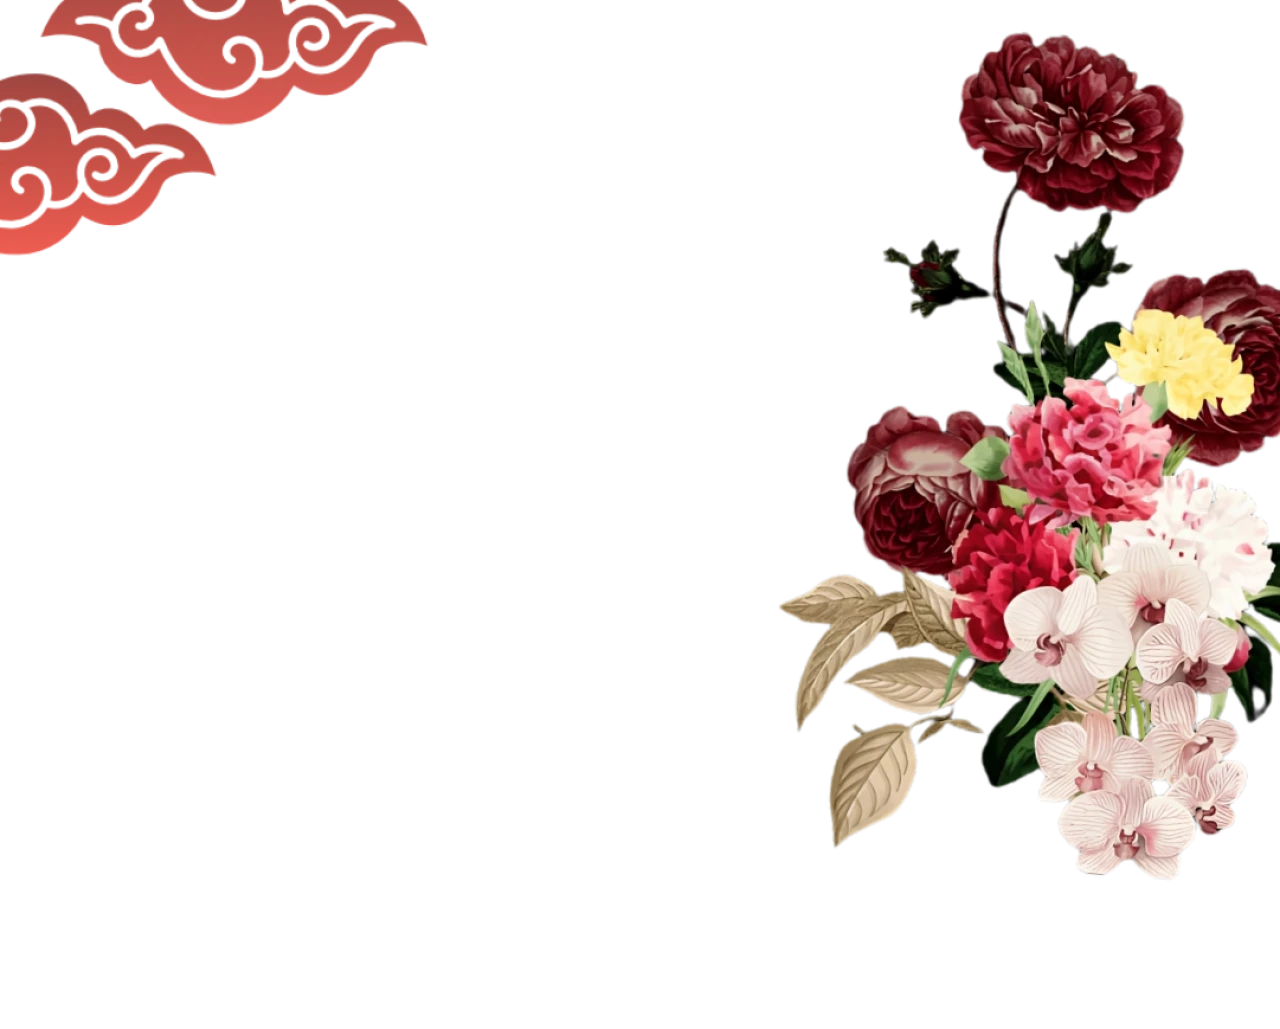
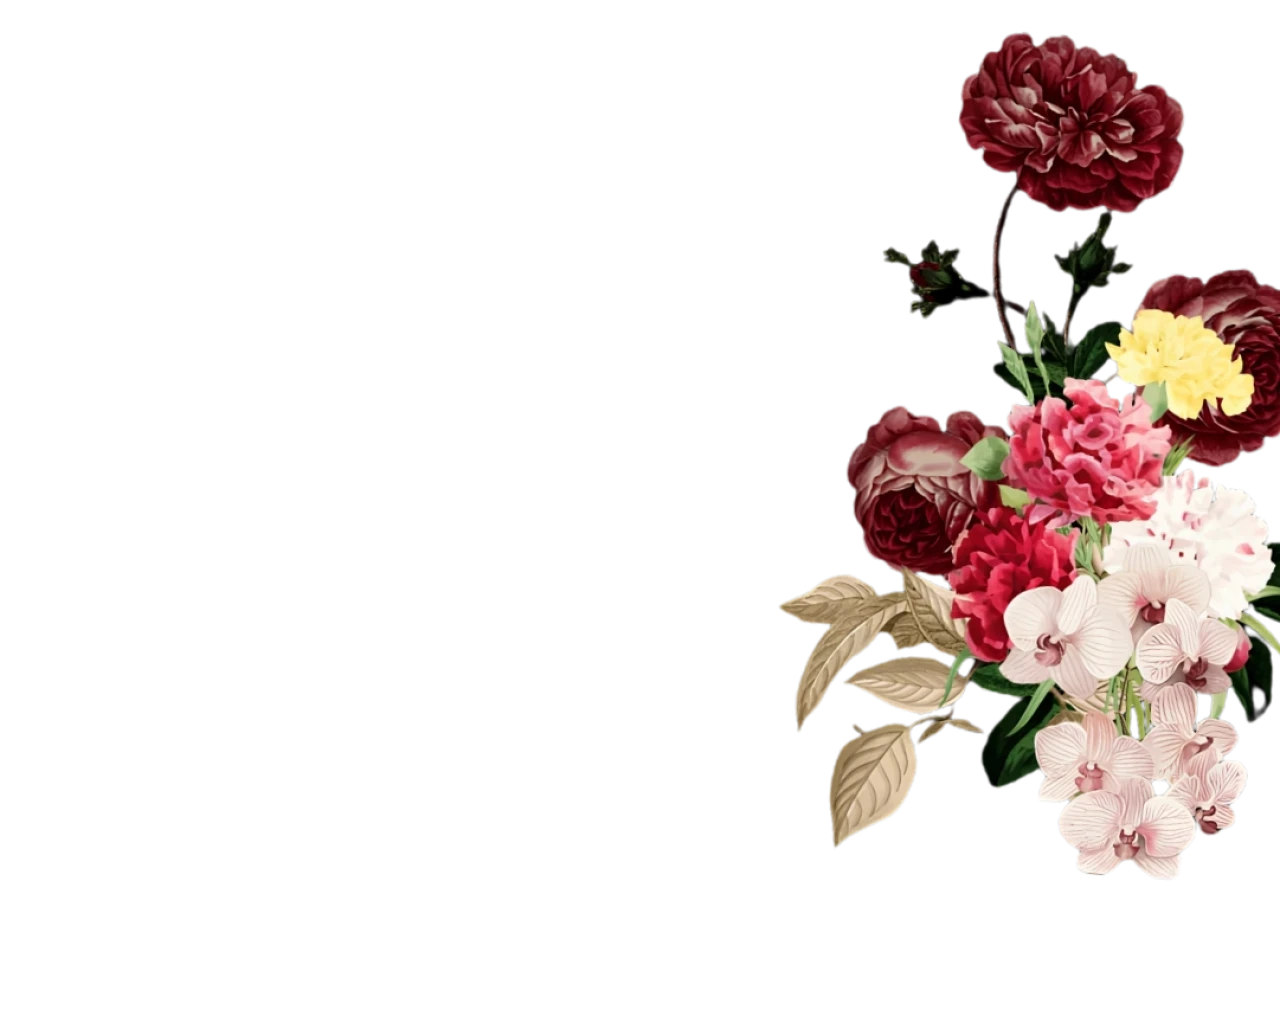
fix(java-vibes): scale down 'The Wedding Of', remove cloud from Save The Date arch, remove RY emblem and shrink Matur Nuwun text

Changed region(s): [[0.0, 0.0, 0.3438, 0.2488]]

diff --git a/components/templates/java-vibes/java-vibes.module.css b/components/templates/java-vibes/java-vibes.module.css
@@ -208,7 +208,7 @@
 
 .coverSubtitle {
   font-family: var(--font-jv-latin);
-  font-size: 2.2rem;
+  font-size: 1.7rem;
   color: var(--jv-base);
   margin-bottom: 0.85rem;
   line-height: 1;
@@ -370,7 +370,7 @@
 
 .heroKicker {
   font-family: var(--font-jv-latin);
-  font-size: 3.1rem;
+  font-size: 2.1rem;
   color: var(--jv-maroon);
   line-height: 1;
   margin-bottom: 0.35rem;
@@ -1454,7 +1454,7 @@
 
 .closingTitle {
   font-family: var(--font-jv-latin);
-  font-size: 3.5rem;
+  font-size: 2.3rem;
   color: var(--jv-gold-light);
   line-height: 1.1;
   margin-bottom: 1.2rem;

diff --git a/components/templates/java-vibes/java-vibes-client-app.tsx b/components/templates/java-vibes/java-vibes-client-app.tsx
@@ -1023,10 +1023,6 @@ export function JavaVibesClientApp({
 
         {/* SLIDE 8: PENUTUP & TERIMA KASIH */}
         <section className={styles.closingSection}>
-          <div className={`${styles.closingEmblem} jv-reveal jv-reveal-zoom`}>
-            <Image src="/media/java-vibes/decor/gunungan-emblem.webp" alt="" width={90} height={120} style={{ width: "100%", height: "auto" }} />
-          </div>
-
           <div className={`${styles.closingTitle} jv-reveal jv-reveal-up`}>Matur Nuwun</div>
 
           <p className={`${styles.closingDesc} jv-reveal jv-reveal-up`}>
